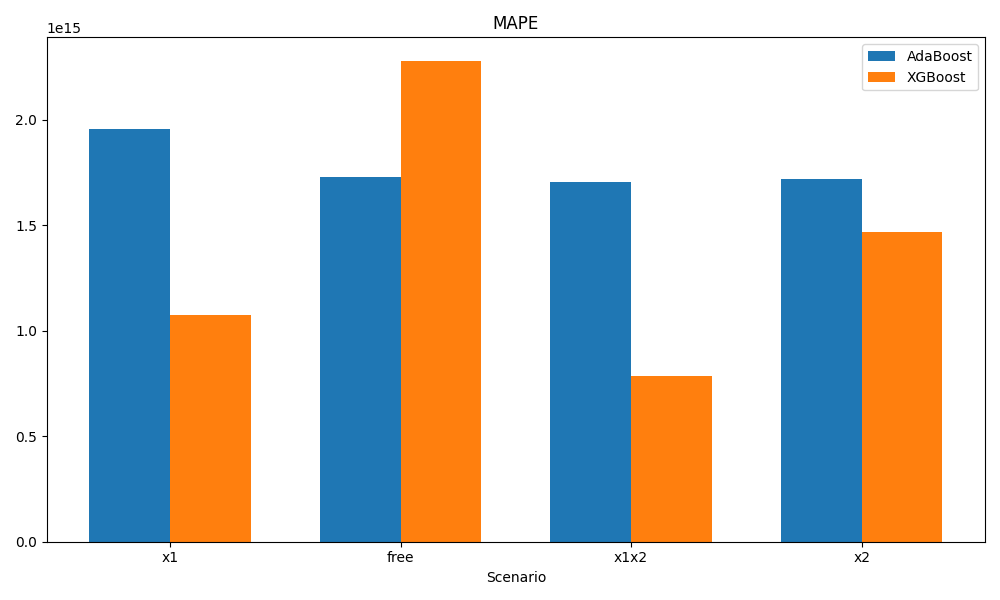
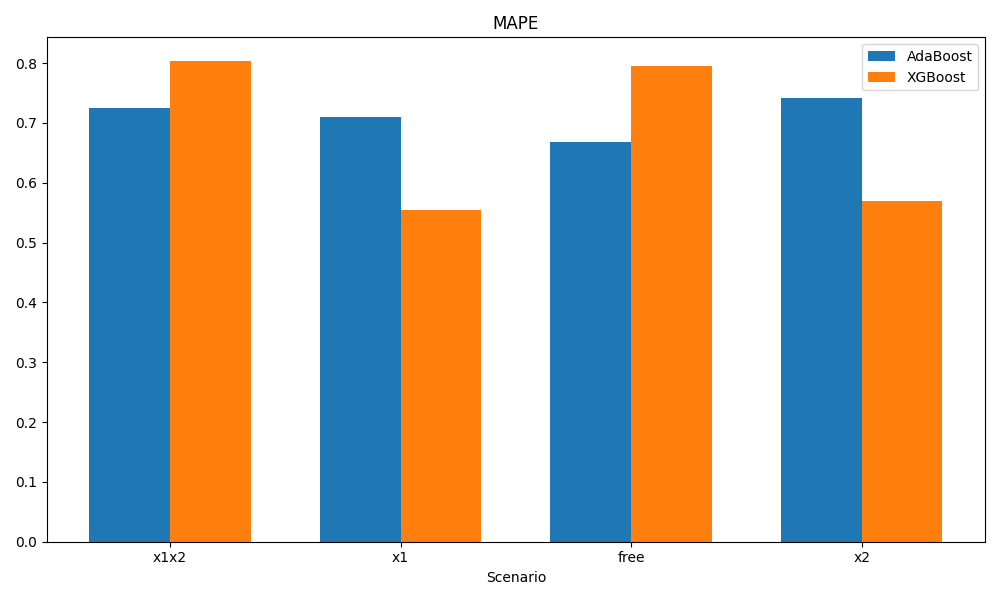
udpate : fix data processing

diff --git a/main.py b/main.py
@@ -2,7 +2,7 @@ import data_processing as dp
 import ada_boost as ab
 import xg_boost as xgb
 import evaluator as ev
-import boostInterface as bi
+import boost_interface as bi
 import numpy as np
 from nicegui import ui
 from matplotlib import pyplot as plt
@@ -194,12 +194,12 @@ class main:
             # R2 Score
             print(f"nilai r2 score untuk ada boost : {self.evaluator.get_r2_score()}")
 
-            print(f"overfitting check")
-            overfitting_train = ev.Evaluator(boost.prediction_value(), data.get_y_train())
-            overfitting_test = ev.Evaluator(boost.prediction_value(), data.get_y_test())
-            overfitting_train_value = overfitting_train.get_r2_score()
-            overfitting_test_value = overfitting_test.get_r2_score()
-            print(f"overfitting check :{np.abs(overfitting_train_value - overfitting_test_value)} for scenario {scenario} using ada boost")
+            # print(f"overfitting check")
+            # overfitting_train = ev.Evaluator(boost.prediction_value(), data.get_y_train())
+            # overfitting_test = ev.Evaluator(boost.prediction_value(), data.get_y_test())
+            # overfitting_train_value = overfitting_train.get_r2_score()
+            # overfitting_test_value = overfitting_test.get_r2_score()
+            # print(f"overfitting check :{np.abs(overfitting_train_value - overfitting_test_value)} for scenario {scenario} using ada boost")
 
             print("--------------------------------------------------")
             print("--------------------------------------------------")
@@ -546,6 +546,7 @@ class main:
 
 if __name__ in {"__main__", "__mp_main__"}:
     app = main()
+    
     app.run_single_param()
     # app.run_multi_param()
     # app.run_ui()

diff --git a/data_processing.py b/data_processing.py
@@ -108,7 +108,7 @@ class DataProcessing:
         # Semua kolom selain kolom target adalah fitur (X)
         features = [col for col in df_train_feat.columns if col != self.target_col]
 
-        x_train, y_train, x_test, y_test = train_test_split(
+        x_train, x_test, y_train, y_test = train_test_split(
             df_train_feat.drop(columns=[self.target_col]),
             df_train_feat[self.target_col],
             test_size=0.2,
